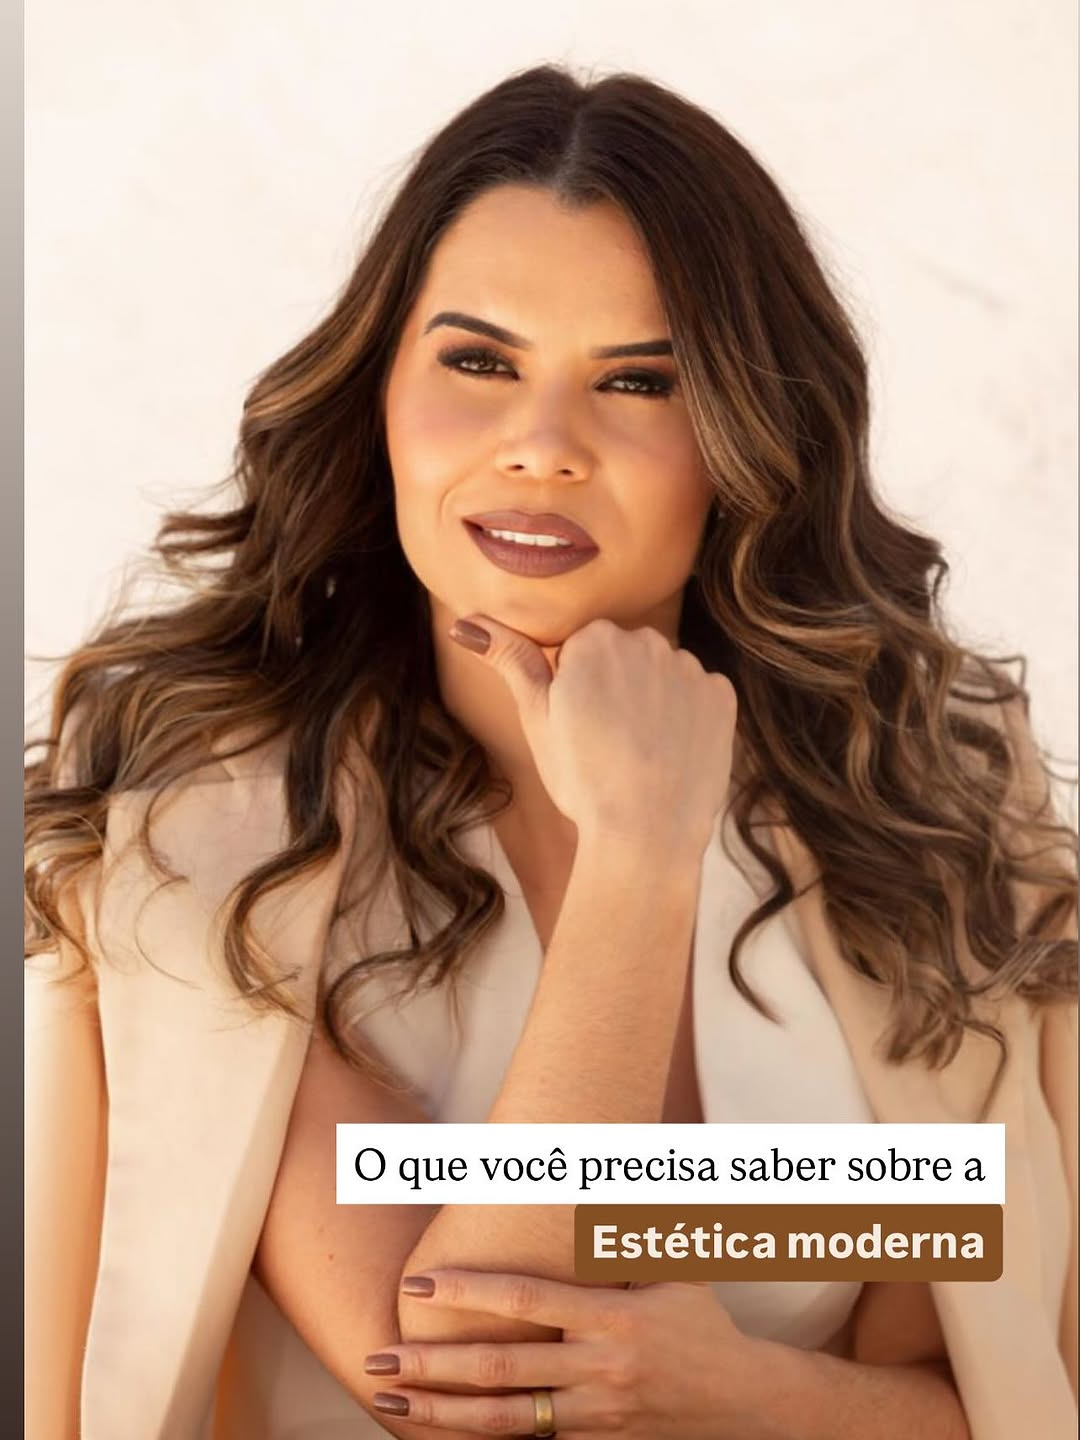
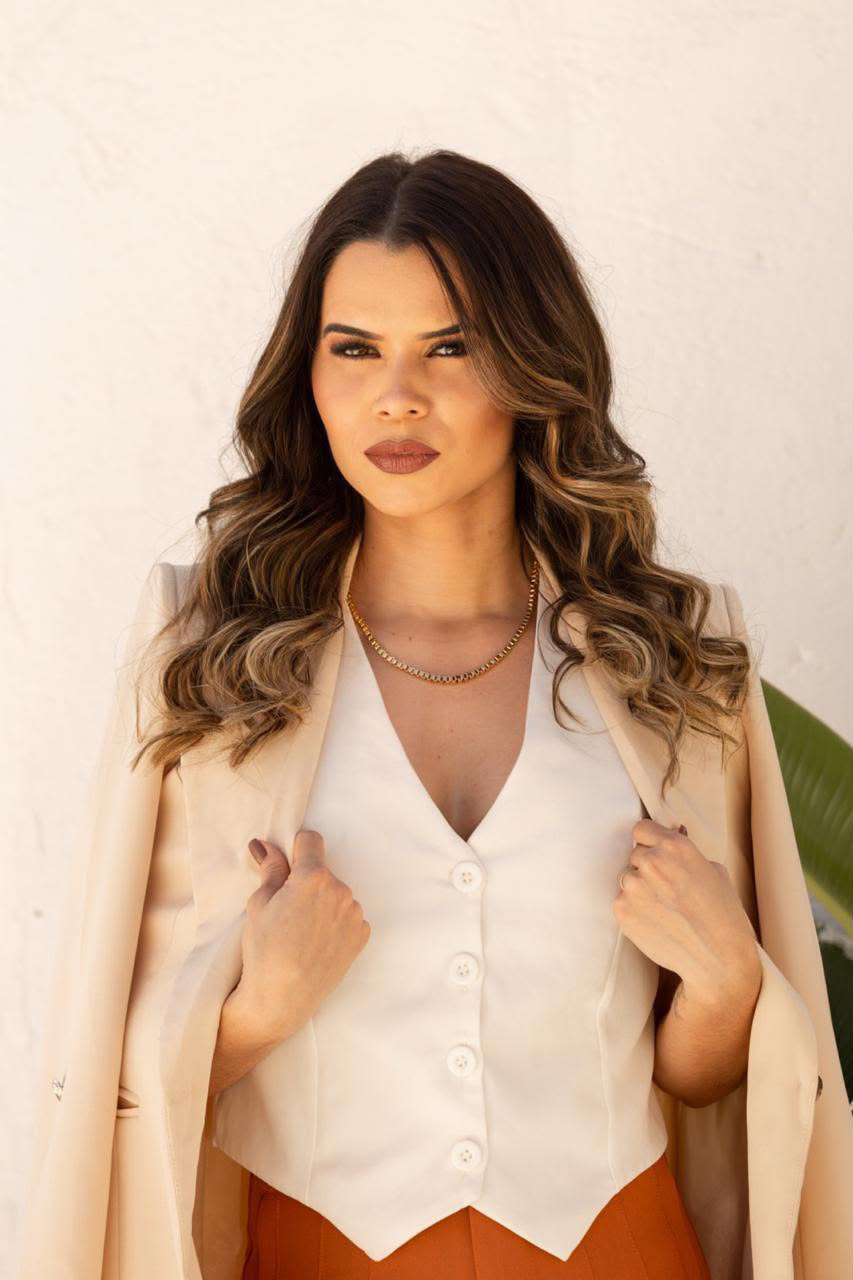
fix(dra-laicianecarla): ajustes solicitados pela doutora
- Adiciona logo da Dra. Laiciane Carla no nav
- Substitui hero por foto com blazer (lp_img11)
- Substitui foto da secao sobre por retrato sorrindo (lp_img14)
- Remove mencao de anos de experiencia da secao sobre
- Destaca card do Protocolo Beauty Essencial com borda dourada
- Substitui imagem do card Design de Labios por post real do Instagram
- Atualiza endereco para QualiClin, Rua Guimaraes Natal, 168 - St. Central

diff --git a/prospects/dra-laicianecarla/index.html b/prospects/dra-laicianecarla/index.html
@@ -505,7 +505,9 @@
 <!-- ── NAV ── -->
 <nav class="nav" id="nav">
   <div class="nav-inner">
-    <span class="nav-brand">Dra. Laiciane Carla</span>
+    <a href="#" class="nav-brand">
+      <img src="img/logo.jpg" alt="Dra. Laiciane Carla — Estética Essencial" style="height:36px;width:auto;display:block;border-radius:4px;" />
+    </a>
     <a href="https://www.instagram.com/dra.laicianecarla/" target="_blank" rel="noopener" class="nav-ig">
       <svg viewBox="0 0 24 24" fill="currentColor"><path d="M12 2.163c3.204 0 3.584.012 4.85.07 3.252.148 4.771 1.691 4.919 4.919.058 1.265.069 1.645.069 4.849 0 3.205-.012 3.584-.069 4.849-.149 3.225-1.664 4.771-4.919 4.919-1.266.058-1.644.07-4.85.07-3.204 0-3.584-.012-4.849-.07-3.26-.149-4.771-1.699-4.919-4.92-.058-1.265-.07-1.644-.07-4.849 0-3.204.013-3.583.07-4.849.149-3.227 1.664-4.771 4.919-4.919 1.266-.057 1.645-.069 4.849-.069zm0-2.163c-3.259 0-3.667.014-4.947.072-4.358.2-6.78 2.618-6.98 6.98-.059 1.281-.073 1.689-.073 4.948 0 3.259.014 3.668.072 4.948.2 4.358 2.618 6.78 6.98 6.98 1.281.058 1.689.072 4.948.072 3.259 0 3.668-.014 4.948-.072 4.354-.2 6.782-2.618 6.979-6.98.059-1.28.073-1.689.073-4.948 0-3.259-.014-3.667-.072-4.947-.196-4.354-2.617-6.78-6.979-6.98-1.281-.059-1.69-.073-4.949-.073zm0 5.838c-3.403 0-6.162 2.759-6.162 6.162s2.759 6.163 6.162 6.163 6.162-2.759 6.162-6.163c0-3.403-2.759-6.162-6.162-6.162zm0 10.162c-2.209 0-4-1.79-4-4 0-2.209 1.791-4 4-4s4 1.791 4 4c0 2.21-1.791 4-4 4zm6.406-11.845c-.796 0-1.441.645-1.441 1.44s.645 1.44 1.441 1.44c.795 0 1.439-.645 1.439-1.44s-.644-1.44-1.439-1.44z"/></svg>
       @dra.laicianecarla
@@ -668,7 +670,7 @@ function shareLP() {
       <!-- Design de Lábios -->
       <div class="prod-card reveal d1">
         <div class="prod-img">
-          <img src="img/img4.jpg" alt="Design de Lábios" loading="lazy" />
+          <img src="img/labios.jpg" alt="Design de Lábios" loading="lazy" />
           <span class="prod-badge prod-badge-dark">Muito Amado</span>
         </div>
         <div class="prod-info">
@@ -678,10 +680,10 @@ function shareLP() {
         </div>
       </div>
       <!-- Protocolo Beauty Essencial -->
-      <div class="prod-card reveal d2">
+      <div class="prod-card reveal d2" style="border:2px solid var(--gold);box-shadow:0 0 24px rgba(184,126,106,0.35);position:relative;">
         <div class="prod-img">
           <img src="img/img1.jpg" alt="Protocolo Beauty Essencial" loading="lazy" />
-          <span class="prod-badge prod-badge-green">Exclusivo</span>
+          <span class="prod-badge prod-badge-green" style="font-size:0.75rem;padding:0.35rem 0.75rem;">⭐ Método Exclusivo</span>
         </div>
         <div class="prod-info">
           <div class="prod-name">Protocolo Beauty Essencial</div>
@@ -710,10 +712,6 @@ function shareLP() {
           <div class="stat">
             <div class="stat-num">500+</div>
             <div class="stat-label">Pacientes atendidas</div>
-          </div>
-          <div class="stat">
-            <div class="stat-num">5+</div>
-            <div class="stat-label">Anos de experiência</div>
           </div>
           <div class="stat">
             <div class="stat-num">01</div>
@@ -847,12 +845,12 @@ function shareLP() {
       <h2 class="sec-title">Onde <em>nos encontrar</em></h2>
       <p class="mapa-address">
         <svg viewBox="0 0 24 24" fill="none" stroke="currentColor" stroke-width="2"><path d="M17.657 16.657L13.414 20.9a1.998 1.998 0 01-2.827 0l-4.244-4.243a8 8 0 1111.314 0z"/><path d="M15 11a3 3 0 11-6 0 3 3 0 016 0z"/></svg>
-        Itumbiara-GO
+        QualiClin, Rua Guimarães Natal, 168 - St. Central, Itumbiara-GO
       </p>
     </div>
     <div class="mapa-embed reveal d1">
       <iframe
-        src="https://maps.google.com/maps?q=Itumbiara,+GO,+Brasil&output=embed"
+        src="https://maps.google.com/maps?q=QualiClin+Rua+Guimaraes+Natal+168+Itumbiara+GO&output=embed"
         width="100%" height="420"
         style="border:0;" allowfullscreen loading="lazy"
         referrerpolicy="no-referrer-when-downgrade">
